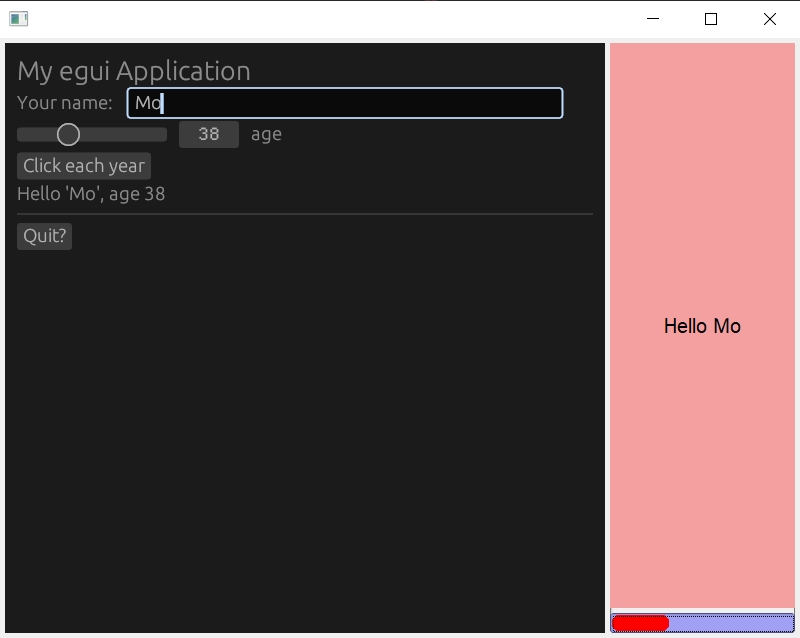
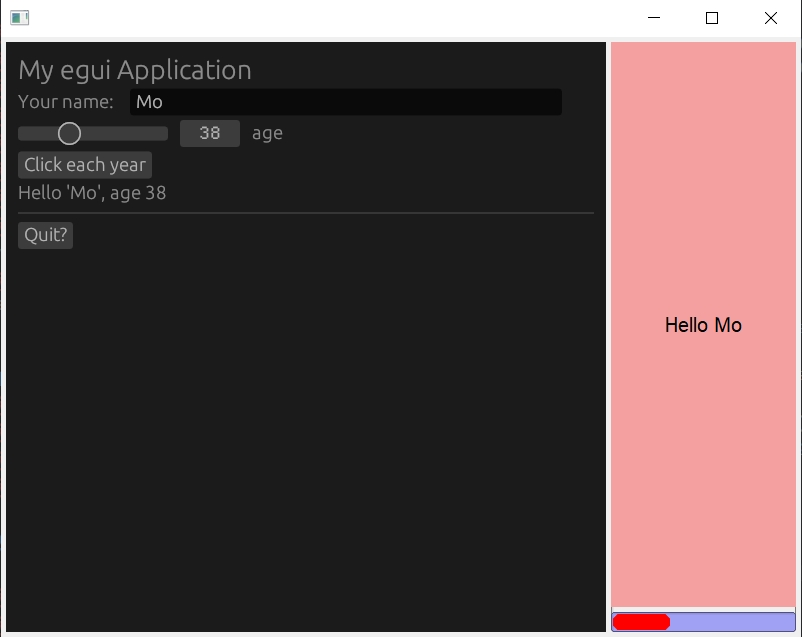
properly handle enter, rename glut_win to gl_win, remove visible focus in embedded example, update

diff --git a/examples/embedded.rs b/examples/embedded.rs
@@ -15,18 +15,19 @@ fn main() {
     app::get_system_colors();
     app::set_font_size(20);
     let mut main_win = window::Window::new(100, 100, SCREEN_WIDTH as _, SCREEN_HEIGHT as _, None);
-    let mut glut_win = window::GlWindow::new(5, 5, main_win.w() - 200, main_win.h() - 10, None);
-    glut_win.set_mode(Mode::Opengl3);
-    glut_win.end();
+    let mut gl_win = window::GlWindow::new(5, 5, main_win.w() - 200, main_win.h() - 10, None);
+    gl_win.set_mode(Mode::Opengl3);
+    gl_win.end();
     let mut col = group::Flex::default()
         .column()
         .with_size(185, 590)
-        .right_of(&glut_win, 5);
+        .right_of(&gl_win, 5);
     col.set_frame(FrameType::DownBox);
     let mut frm = frame::Frame::default();
     frm.set_color(Color::Red.inactive());
     frm.set_frame(FrameType::FlatBox);
     let mut slider = valuator::Slider::default().with_type(valuator::SliderType::HorizontalFill);
+    slider.clear_visible_focus();
     slider.set_slider_frame(FrameType::RFlatBox);
     slider.set_slider_size(0.20);
     slider.set_color(Color::Blue.inactive());
@@ -36,10 +37,10 @@ fn main() {
     main_win.end();
     main_win.make_resizable(true);
     main_win.show();
-    glut_win.make_current();
+    gl_win.make_current();
 
     let (painter, egui_input_state) =
-        egui_backend::with_fltk(&mut glut_win, DpiScaling::Custom(1.5));
+        egui_backend::with_fltk(&mut gl_win, DpiScaling::Custom(1.5));
     let mut egui_ctx = egui::CtxRef::default();
 
     let state = Rc::from(RefCell::from(egui_input_state));
@@ -48,7 +49,7 @@ fn main() {
     main_win.handle({
         let state = state.clone();
         let painter = painter.clone();
-        let mut w = glut_win.clone();
+        let mut w = gl_win.clone();
         move |_, ev| match ev {
             enums::Event::Push
             | enums::Event::Released
@@ -107,15 +108,15 @@ fn main() {
         });
 
         let (egui_output, shapes) = egui_ctx.end_frame();
-        state.fuse_output(&mut glut_win, &egui_output);
+        state.fuse_output(&mut gl_win, &egui_output);
 
         let meshes = egui_ctx.tessellate(shapes);
 
         //Draw egui texture
         painter.paint_jobs(None, meshes, &egui_ctx.texture());
 
-        glut_win.swap_buffers();
-        glut_win.flush();
+        gl_win.swap_buffers();
+        gl_win.flush();
         app::sleep(0.006);
         app::awake();
         if quit {

diff --git a/src/lib.rs b/src/lib.rs
@@ -317,22 +317,20 @@ pub fn translate_virtual_key_code(key: enums::Key) -> Option<egui::Key> {
         enums::Key::Up => Some(egui::Key::ArrowUp),
         enums::Key::Right => Some(egui::Key::ArrowRight),
         enums::Key::Down => Some(egui::Key::ArrowDown),
-
         enums::Key::Escape => Some(egui::Key::Escape),
         enums::Key::Tab => Some(egui::Key::Tab),
         enums::Key::BackSpace => Some(egui::Key::Backspace),
-
         enums::Key::Insert => Some(egui::Key::Insert),
         enums::Key::Home => Some(egui::Key::Home),
         enums::Key::Delete => Some(egui::Key::Delete),
         enums::Key::End => Some(egui::Key::End),
         enums::Key::PageDown => Some(egui::Key::PageDown),
         enums::Key::PageUp => Some(egui::Key::PageUp),
+        enums::Key::Enter => Some(egui::Key::Enter),
         _ => {
             if let Some(k) = key.to_char() {
                 match k {
                     ' ' => Some(egui::Key::Space),
-                    '\n' => Some(egui::Key::Enter),
                     'a' => Some(egui::Key::A),
                     'b' => Some(egui::Key::B),
                     'c' => Some(egui::Key::C),
